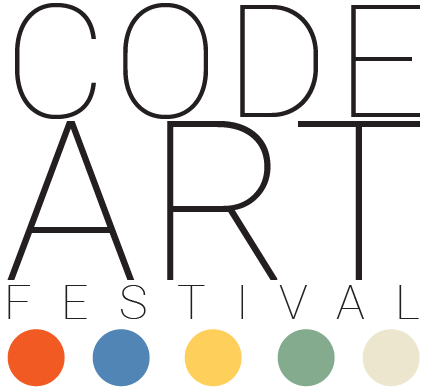
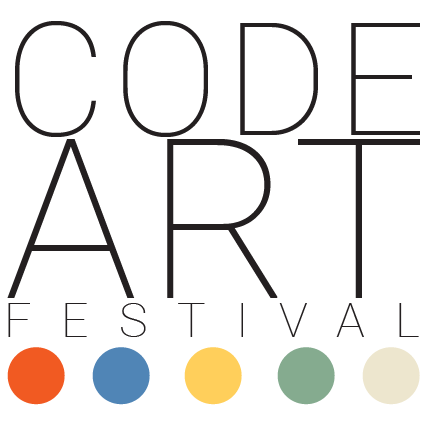
yep

diff --git a/index.html b/index.html
@@ -6,6 +6,10 @@
         <title></title>
         <meta name="description" content="">
         <meta name="viewport" content="width=device-width, initial-scale=1">
+        <meta property="og:title" content="• Code • Art • Festival • ">
+        <meta property="og:site_name" content="Code Art Festival">
+        <meta property="og:description" content="Code Art Festival brings together those at the intersection of art and technology with a day of speakers, hands-on workshops, and an exhibition of interactive art showcasing the cutting edge in technology, design, and new media.">
+        <meta property="og:image" content="http://code-art-festival.com/img/code_art_festival_brand_black.png">
 
         <link rel="stylesheet" href="css/bootstrap.min.css">
         <style>
